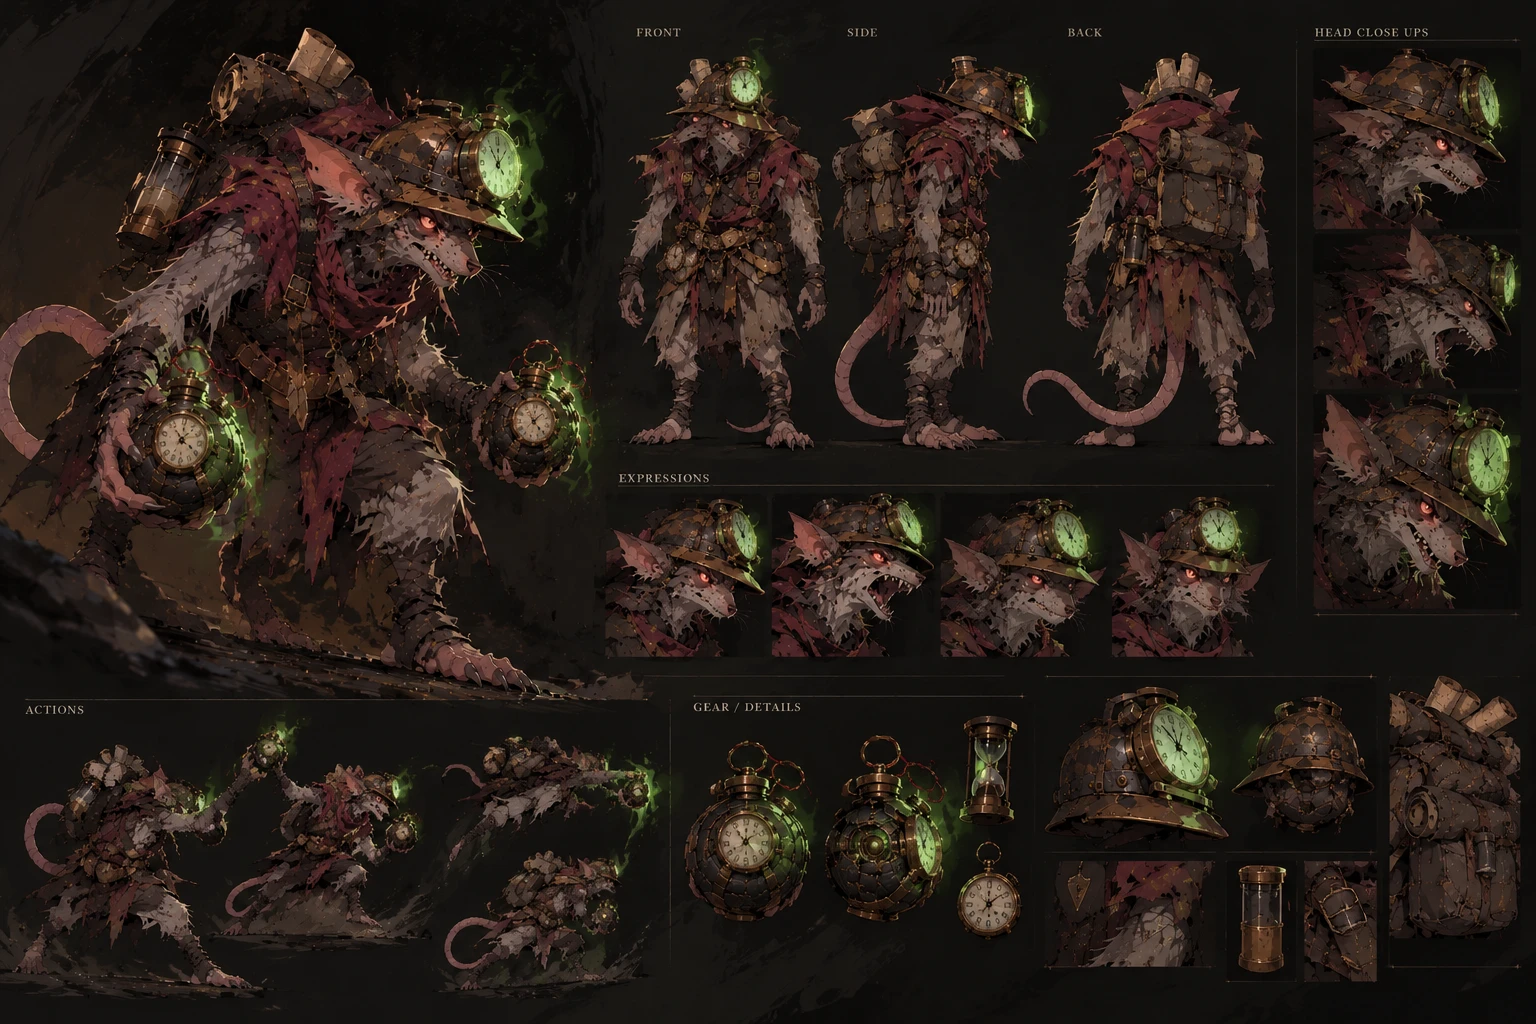
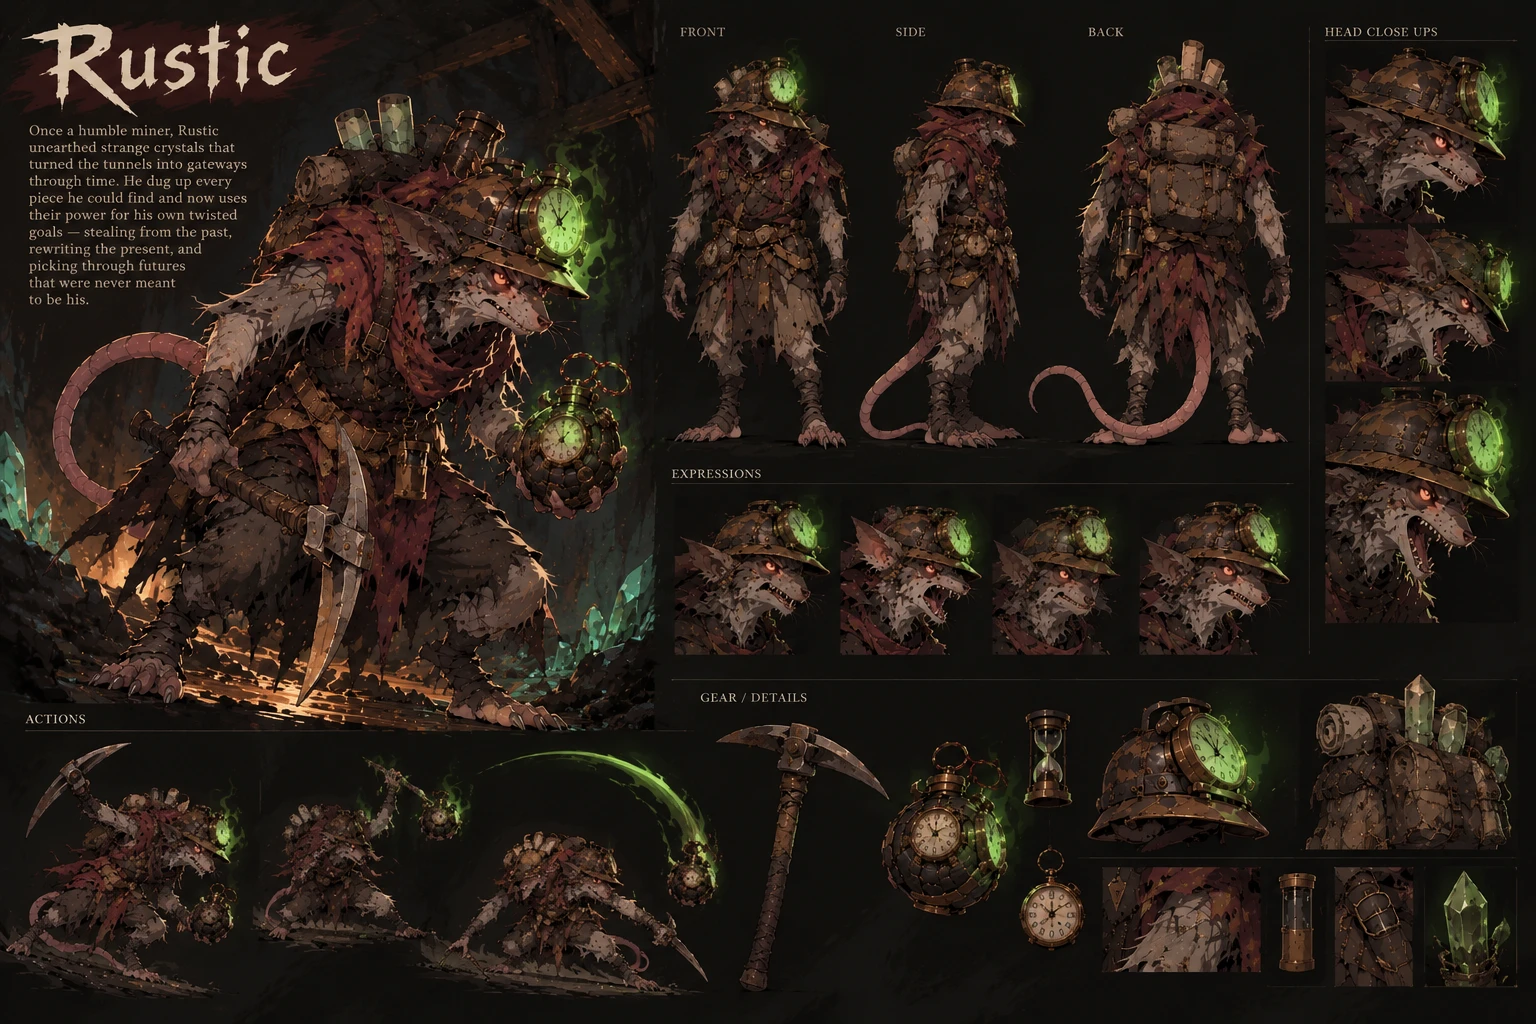
Rustic: pickaxe in hand, new art, miner ability names
New concept sheet and key art (flipped on the select screen and shifted right so
the painted background doesn't hide him). The model swings a pickaxe and carries
time crystals on its pack. Abilities renamed: Chrono Pick, Chronobomb, Time Skip,
Cave-In, Rewind, Blasting Charge.

diff --git a/src/render/models.ts b/src/render/models.ts
@@ -2274,8 +2274,9 @@ function buildVampire(color: string, glowTex: THREE.Texture): ChampionRig {
  * Rustic — time kobold (from the concept sheet), toon style: a hunched grey rat with a
  * long pink tail, red eyes and a snout full of teeth, a riveted miner's helmet with a
  * glowing green clock for a lamp, a torn red scarf and brown rags, wrapped shins, a
- * backpack with scrolls and an hourglass, and a clockwork bomb in each claw.
- * The right arm (with its bomb) is the weapon. Team color: armband and scarf knot.
+ * backpack with scroll rolls, time crystals and an hourglass, a pickaxe in the right
+ * claw and a clockwork bomb in the left. The right arm (with the pick) is the weapon.
+ * Team color: armband and scarf knot.
  */
 function buildRustic(color: string, glowTex: THREE.Texture): ChampionRig {
   const team = new THREE.Color(color);
@@ -2297,6 +2298,9 @@ function buildRustic(color: string, glowTex: THREE.Texture): ChampionRig {
   const matTime = new THREE.MeshBasicMaterial({ color: COLORS.chrono, toneMapped: false });
   const matGlass = new THREE.MeshBasicMaterial({ color: '#cfe8d4', transparent: true, opacity: 0.35, depthWrite: false });
   const matSand = toon('#d9b46a');
+  const matCrystal = new THREE.MeshBasicMaterial({ color: '#7dff8a', transparent: true, opacity: 0.8, toneMapped: false });
+  const matSteel = toon('#a9a49a');
+  const matHaft = toon('#5a4330');
 
   const root = new THREE.Group();
   const lean = new THREE.Group();
@@ -2364,13 +2368,19 @@ function buildRustic(color: string, glowTex: THREE.Texture): ChampionRig {
   // Harness straps over the shoulders
   for (const side of [-1, 1]) limb(torso, v(6.5, 15, side * 5), v(5.5, 2, -side * 4), 0.7, matLeather);
 
-  // Backpack with scroll rolls and a brass hourglass hanging off its side
+  // Backpack with a bedroll, glowing time crystals and a brass hourglass hanging off its side
   keep(add(new THREE.BoxGeometry(9, 13, 15), matLeather, -9.5, 11, 0, torso));
   keep(add(new THREE.BoxGeometry(2, 9, 12), matRags, -14.4, 10, 0, torso));
-  for (const [z, h, t] of [[-4, 11, 0.2], [0.5, 13, -0.1], [4.5, 9, 0.3]] as const) {
-    const roll = keep(add(new THREE.CylinderGeometry(1.9, 1.9, h, 10), matParch, -10 + t * 4, 19 + h / 2 - 2, z, torso));
-    roll.rotation.z = t;
+  const bedroll = keep(add(new THREE.CylinderGeometry(2.6, 2.6, 15, 12), matParch, -9.5, 19.5, 0, torso));
+  bedroll.rotation.x = Math.PI / 2;
+  for (const [x, z, h, t] of [[-8, -4, 9, 0.25], [-11, 0, 12, -0.1], [-7.5, 3.5, 8, 0.35], [-12, 5, 6, -0.3]] as const) {
+    const crystal = add(new THREE.OctahedronGeometry(2, 0), matCrystal, x, 21 + h / 3, z, torso);
+    crystal.scale.set(0.8, h / 4, 0.8);
+    crystal.rotation.set(t, t * 2, t);
   }
+  const packGlow = glowSprite(glowTex, COLORS.chrono, 20, 0.45);
+  packGlow.position.set(-9.5, 24, 0);
+  torso.add(packGlow);
   const hourglass = new THREE.Group();
   hourglass.position.set(-9, 9, 9.5);
   torso.add(hourglass);
@@ -2457,7 +2467,7 @@ function buildRustic(color: string, glowTex: THREE.Texture): ChampionRig {
   keep(add(new THREE.SphereGeometry(2, 10, 8), matPink, lHand.x, lHand.y, lHand.z, torso));
   bomb(torso, lHand.x + 3.5, lHand.y - 2, lHand.z);
 
-  // Right arm: the weapon, swinging from the shoulder
+  // Right arm: the weapon, swinging the pickaxe from the shoulder
   const weapon = new THREE.Group();
   weapon.position.set(1, 15, 8.6);
   torso.add(weapon);
@@ -2469,20 +2479,33 @@ function buildRustic(color: string, glowTex: THREE.Texture): ChampionRig {
   const band = add(new THREE.TorusGeometry(2.6, 0.7, 6, 14), matTeam, 2, -4, 1.2, weapon);
   band.quaternion.setFromUnitVectors(v(0, 0, 1), rElbow.clone().normalize());
   keep(add(new THREE.SphereGeometry(2, 10, 8), matPink, rHand.x, rHand.y, rHand.z, weapon));
-  const held = bomb(weapon, rHand.x + 3.5, rHand.y - 1.5, rHand.z);
-  const tip = add(new THREE.SphereGeometry(0.9, 8, 6), matTime, 3.5, 0, 0, held);
-  const tipGlow = glowSprite(glowTex, COLORS.chrono, 18, 0.8);
-  tipGlow.position.set(3.8, 0, 0);
-  held.add(tipGlow);
+  // Pickaxe gripped near the top of the haft, the head hanging forward and down
+  const pick = new THREE.Group();
+  pick.position.copy(rHand);
+  pick.rotation.z = 1.05;
+  weapon.add(pick);
+  keep(add(new THREE.CylinderGeometry(0.8, 0.9, 20, 8), matHaft, 0, -5, 0, pick));
+  wraps(pick, v(0, 3, 0), v(0, -2, 0), 1.1, 3, matLeather);
+  keep(add(new THREE.BoxGeometry(3, 3.4, 2.6), matIron, 0, -14.5, 0, pick));
+  const blade = keep(add(new THREE.ConeGeometry(1.4, 12, 6), matSteel, 6.4, -15.6, 0, pick));
+  blade.rotation.z = -Math.PI / 2 - 0.35;
+  blade.scale.set(1, 1, 0.6);
+  const back = keep(add(new THREE.ConeGeometry(1.2, 8, 6), matSteel, -5, -15, 0, pick));
+  back.rotation.z = Math.PI / 2 + 0.3;
+  back.scale.set(1, 1, 0.6);
+  const tip = add(new THREE.SphereGeometry(0.7, 8, 6), matTime, 11.8, -17.6, 0, pick);
+  const tipGlow = glowSprite(glowTex, COLORS.chrono, 14, 0.8);
+  tipGlow.position.copy(tip.position);
+  pick.add(tipGlow);
 
   shadowed(body);
   tip.castShadow = false;
   body.traverse((o) => {
     const m = (o as THREE.Mesh).material;
-    if (m === matEye || m === matTime || m === matGlass || m === matTooth) o.castShadow = false;
+    if (m === matEye || m === matTime || m === matGlass || m === matTooth || m === matCrystal) o.castShadow = false;
   });
   for (const m of outlined) outline(m);
 
   const markers = addMarkers(root, team, bright);
-  return { root, lean, yaw, body, weapon, tip, tipGlow, mats: [matTeam, matFur, matBelly, matPink, matRags, matScarf, matLeather, matBronze, matIron], ...markers };
+  return { root, lean, yaw, body, weapon, tip, tipGlow, mats: [matTeam, matFur, matBelly, matPink, matRags, matScarf, matLeather, matBronze, matIron, matSteel, matHaft], ...markers };
 }

diff --git a/src/sim/constants.ts b/src/sim/constants.ts
@@ -182,13 +182,13 @@ export const CHAMPIONS: ChampionDef[] = [
     hp: 130,
     speed: 3.5,
     abilities: [
-      { id: 'chrono', name: 'Chrono Blade', desc: 'quick slash, hold to keep slashing; every third hit in a row on one enemy resonates: bonus damage, slows it and hastes you', cooldown: 5, cast: 9, castSlow: 0.6, energyCost: 0 },
-      { id: 'clock', name: 'Clockwork Bomb', desc: 'lob a ticking bomb at the cursor that bounces on twice; it bursts when it lands next to an enemy (or at the last bounce), slowing time around it', cooldown: 270, cast: 14, castSlow: 0.5, energyCost: 0 },
+      { id: 'chrono', name: 'Chrono Pick', desc: 'pickaxe swing, hold to keep swinging; every third hit in a row on one enemy cracks time: bonus damage, slows it and hastes you', cooldown: 5, cast: 9, castSlow: 0.6, energyCost: 0 },
+      { id: 'clock', name: 'Chronobomb', desc: 'lob a ticking bomb at the cursor that bounces on twice; it bursts when it lands next to an enemy (or at the last bounce), slowing time around it', cooldown: 270, cast: 14, castSlow: 0.5, energyCost: 0 },
       // The cooldown is only a short lockout between blinks; charges do the limiting.
-      { id: 'flicker', name: 'Flicker', desc: 'short blink where you are moving (or aiming), two charges', cooldown: 12, cast: 0, castSlow: 1, energyCost: 0 },
-      { id: 'converge', name: 'Parallel Convergence', desc: 'place a field that collapses after 1.5 s, stunning enemies inside', cooldown: 600, cast: 10, castSlow: 0.5, energyCost: 0 },
-      { id: 'recall', name: 'Recall', desc: 'jump back to where you were 3 s ago, regaining a third of the HP you lost since', cooldown: 720, cast: 0, castSlow: 1, energyCost: 0 },
-      { id: 'pulse', name: 'Pulse Bomb', desc: 'throw a bomb that sticks to the first enemy it hits (or lands) and bursts after 1 s, 100 energy', cooldown: 60, cast: 12, castSlow: 0.4, energyCost: 100 },
+      { id: 'flicker', name: 'Time Skip', desc: 'short blink where you are moving (or aiming), two charges', cooldown: 12, cast: 0, castSlow: 1, energyCost: 0 },
+      { id: 'converge', name: 'Cave-In', desc: 'mark an area; after 1.5 s time caves in on it, stunning enemies inside', cooldown: 600, cast: 10, castSlow: 0.5, energyCost: 0 },
+      { id: 'recall', name: 'Rewind', desc: 'jump back to where you were 3 s ago, regaining a third of the HP you lost since', cooldown: 720, cast: 0, castSlow: 1, energyCost: 0 },
+      { id: 'pulse', name: 'Blasting Charge', desc: 'throw a charge that sticks to the first enemy it hits (or lands) and blows up after 1 s, 100 energy', cooldown: 60, cast: 12, castSlow: 0.4, energyCost: 100 },
     ],
   },
 ];
@@ -310,11 +310,11 @@ export const SWARM = { range: 260, ticks: 20, dmg: 10, heal: 5, slowMul: 0.75, s
 // Time kobold
 /**
  * Like KATANA but shorter. `hits` hits in a row on one enemy (each within `window` of the last,
- * from Chrono Blade or Clockwork Bomb) resonate: +`bonus`, a slow, and haste for the attacker.
+ * from Chrono Pick or Chronobomb) resonate: +`bonus`, a slow, and haste for the attacker.
  */
 export const CHRONO = { reach: 48, minDot: 0.5, dmg: 6, energy: 9, hits: 3, window: 150, bonus: 12, slowMul: 0.65, slowT: 50, haste: 60 };
 /**
- * Clockwork Bomb: `bounces` bounces, each hop `hop` times the last (at least `minHop`). It bursts
+ * Chronobomb: `bounces` bounces, each hop `hop` times the last (at least `minHop`). It bursts
  * within `r` when it lands next to an enemy (or the orb), on a pillar or the wall, or at the last landing.
  */
 export const CLOCK = { bounces: 2, hop: 0.45, minHop: 40, r: 75 };

diff --git a/src/sim/step.ts b/src/sim/step.ts
@@ -361,7 +361,7 @@ function updatePlayer(s: GameState, p: Player, inp: Input, ev: GameEvent[]) {
     p.charges++;
     if (p.charges < FLICKER.charges) p.chargeT = FLICKER.recharge;
   }
-  // The time kobold remembers where it was, for Recall.
+  // The time kobold remembers where it was, for Rewind.
   if (p.champ === CHAMP.CHRONO && s.roundFrame % RECALL.every === 0) {
     p.trail.push(p.x, p.y, p.hp);
     if (p.trail.length > 3 * (RECALL.ticks / RECALL.every + 1)) p.trail.splice(0, 3);
@@ -483,7 +483,7 @@ function tryStart(s: GameState, p: Player, slot: number, inp: Input, ev: GameEve
   const mobility = def.id === 'dash' || def.id === 'leap' || def.id === 'blink' || def.id === 'vault' || def.id === 'execute' || def.id === 'blade' || def.id === 'soul' || def.id === 'fate' || def.id === 'step' || def.id === 'swarm' || def.id === 'flicker' || def.id === 'recall';
   if (p.rootT > 0 && mobility) return false;
 
-  // Flicker: instant short blink along the movement (the aim when standing), on charges. Works mid-cast.
+  // Time Skip: instant short blink along the movement (the aim when standing), on charges. Works mid-cast.
   if (def.id === 'flicker') {
     if (p.charges <= 0 || p.dashT > 0) return false;
     let dx = Math.sign(inp.mx);
@@ -508,7 +508,7 @@ function tryStart(s: GameState, p: Player, slot: number, inp: Input, ev: GameEve
     return true;
   }
 
-  // Recall: back to the oldest remembered spot, getting part of the HP lost since then.
+  // Rewind: back to the oldest remembered spot, getting part of the HP lost since then.
   if (def.id === 'recall') {
     if (p.dashT > 0 || p.trail.length < 3) return false;
     const [x, y, hp] = p.trail;
@@ -1295,7 +1295,7 @@ function updateProjectiles(s: GameState, ev: GameEvent[]) {
         alive.push(pr);
         continue;
       }
-      // A Pulse Bomb doesn't hurt on contact: it sticks (a counter knocks it away).
+      // A Blasting Charge doesn't hurt on contact: it sticks (a counter knocks it away).
       if (pr.kind === 'pulse') {
         if (target.counterT > 0) block(target, pr.x, pr.y, ev);
         else {
@@ -1360,12 +1360,12 @@ function fizzle(s: GameState, pr: Projectile, ev: GameEvent[], impact = true) {
     s.zones.push({ id: s.nextId++, owner: pr.owner, kind: 'sonic', x: pr.x, y: pr.y, t: SONIC.ticks, target: -1 });
     ev.push({ type: 'sensor', owner: pr.owner, x: pr.x, y: pr.y });
   }
-  // A Pulse Bomb that hit nothing lies where it stopped, still ticking.
+  // A Blasting Charge that hit nothing lies where it stopped, still ticking.
   if (pr.kind === 'pulse') s.zones.push({ id: s.nextId++, owner: pr.owner, kind: 'pulse', x: pr.x, y: pr.y, t: PULSE.fuse, target: -1 });
 }
 
 /**
- * Clockwork Bomb: hops over pillars to each landing spot. Lands next to an enemy (or the
+ * Chronobomb: hops over pillars to each landing spot. Lands next to an enemy (or the
  * orb), on a pillar or with no bounces left: bursts. Otherwise it bounces on, shorter.
  */
 function clockTick(s: GameState, pr: Projectile, ev: GameEvent[]): boolean {

diff --git a/src/sim/types.ts b/src/sim/types.ts
@@ -119,10 +119,10 @@ export interface Player {
   resoN: number;
   resoT: number;
   resoTarget: number;
-  /** Time kobold: Flicker charges, and ticks until the next one comes back. */
+  /** Time kobold: Time Skip charges, and ticks until the next one comes back. */
   charges: number;
   chargeT: number;
-  /** Time kobold: recent [x, y, hp] samples, oldest first, for Recall. */
+  /** Time kobold: recent [x, y, hp] samples, oldest first, for Rewind. */
   trail: number[];
   counterT: number;
   slowT: number;
@@ -145,11 +145,11 @@ export interface Projectile {
   /** Damage and knockback on hit (fixed per kind, except a drawn longshot or a quick arrow). */
   dmg: number;
   kb: number;
-  /** Clockwork Bomb: bounces left; `life` is the current hop's length and `age` restarts every hop. */
+  /** Chronobomb: bounces left; `life` is the current hop's length and `age` restarts every hop. */
   bounces: number;
 }
 
-/** Something on the floor: arrow rain, a sonic sensor, a Parallel Convergence field or a Pulse Bomb. */
+/** Something on the floor: arrow rain, a sonic sensor, a Cave-In field or a Blasting Charge. */
 export interface Zone {
   id: number;
   owner: number;
@@ -158,7 +158,7 @@ export interface Zone {
   y: number;
   /** Ticks left. Rain is still falling while t > RAIN.ticks; a field or a bomb goes off at 0. */
   t: number;
-  /** Pulse Bomb: the player it's stuck to (it moves with them), -1 if on the floor. */
+  /** Blasting Charge: the player it's stuck to (it moves with them), -1 if on the floor. */
   target: number;
 }
 
@@ -242,16 +242,16 @@ export type GameEvent =
   | { type: 'bleed'; player: number; x: number; y: number }
   /** A missed Transfusion costs its caster HP. */
   | { type: 'bloodloss'; player: number; amount: number; x: number; y: number }
-  /** Time kobold: Flicker and Recall jumps. */
+  /** Time kobold: Time Skip and Rewind jumps. */
   | { type: 'flicker'; player: number; x0: number; y0: number; x: number; y: number }
   | { type: 'recall'; player: number; x0: number; y0: number; x: number; y: number }
   /** Resonance going off on `player`. */
   | { type: 'resonance'; player: number; x: number; y: number }
   | { type: 'converge'; owner: number; x: number; y: number }
-  /** A Pulse Bomb sticking to `player`, and bursting. */
+  /** A Blasting Charge sticking to `player`, and bursting. */
   | { type: 'stick'; player: number; x: number; y: number }
   | { type: 'pulse'; owner: number; x: number; y: number }
-  /** A Clockwork Bomb bouncing on, and bursting. */
+  /** A Chronobomb bouncing on, and bursting. */
   | { type: 'bounce'; owner: number; x: number; y: number }
   | { type: 'clockBurst'; owner: number; x: number; y: number }
   /** Romulus scatters into bats (Night Swarm). */

diff --git a/src/render/world3d.ts b/src/render/world3d.ts
@@ -117,7 +117,7 @@ export class World3D implements WorldView {
   private aimLane: THREE.Group;
   private aimLaneMesh: THREE.Mesh;
   private aimCircle: THREE.Mesh;
-  /** Where Recall would land (shown to Rustic's own player). */
+  /** Where Rewind would land (shown to Rustic's own player). */
   private recallMark: THREE.Mesh;
 
   constructor(canvas: HTMLCanvasElement) {
@@ -686,11 +686,13 @@ export class World3D implements WorldView {
         rig.weapon.rotation.z = kick * 0.35;
         twist = def ? -ck * 0.25 : 0;
       } else if (pc.champ === CHAMP.CHRONO) {
-        // The bomb arm winds back for a throw or a cut, then whips forward after it.
+        // The pick rises overhead during the windup and chops down after the hit;
+        // for throws the arm winds back instead.
         const cutCd = pc.cooldowns[SLOT.M1];
         let swing = 0;
-        if (def) swing = -ck * (def.id === 'chrono' ? 1.1 : 1.5);
-        else if (cutCd > 0) swing = 1.1 * (cutCd / kitCd(pc.champ, SLOT.M1));
+        if (def?.id === 'chrono') swing = ck * 1.8;
+        else if (def) swing = -ck * 1.5;
+        else if (cutCd > 0) swing = -0.5 * (cutCd / kitCd(pc.champ, SLOT.M1));
         rig.weapon.rotation.z = swing;
         twist = def ? ck * 0.25 : 0;
       } else {
@@ -856,7 +858,7 @@ export class World3D implements WorldView {
       const old = prevById.get(pr.id);
       const x = old ? old.x + (pr.x - old.x) * alpha : pr.x;
       const y = old ? old.y + (pr.y - old.y) * alpha : pr.y;
-      // A Clockwork Bomb arcs up and down on every hop.
+      // A Chronobomb arcs up and down on every hop.
       const hop = pr.kind === 'clock' ? Math.sin(Math.PI * Math.min(1, (pr.age + alpha) / pr.life)) * Math.min(110, pr.life * 3.2) : 0;
       v.group.position.set(x, PROJ_H + hop, y);
       v.decal.position.y = -PROJ_H - hop + 1;
@@ -1108,7 +1110,7 @@ export class World3D implements WorldView {
     this.recallMark.visible = false;
     if (opts.localId === null || s.phase !== 'fight') return;
     const p = s.players[opts.localId];
-    // Rustic sees where Recall would take it.
+    // Rustic sees where Rewind would take it.
     if (p.champ === CHAMP.CHRONO && p.trail.length >= 3 && !p.out) {
       this.recallMark.visible = true;
       this.recallMark.position.set(p.trail[0], 1.5, p.trail[1]);

diff --git a/src/render/hud.ts b/src/render/hud.ts
@@ -302,7 +302,7 @@ export class Hud {
     for (let i = 0; i < n; i++) {
       const def = kit[i];
       const x = x0 + i * (slot + gap);
-      // Flicker is limited by its charges (its own cooldown is just a short lockout).
+      // Time Skip is limited by its charges (its own cooldown is just a short lockout).
       const outOfCharges = def.id === 'flicker' && p.charges === 0;
       const cd = outOfCharges ? p.chargeT : p.cooldowns[i];
       const cdMax = outOfCharges ? FLICKER.recharge : def.cooldown;
@@ -335,7 +335,7 @@ export class Hud {
       drawIcon(ctx, def.id === 'tempest' && p.stacks >= TEMPEST.max ? 'crescent' : def.id, x + slot / 2, y0 + slot / 2, COLORS.players[p.id]);
       ctx.restore();
 
-      // Pips under the icon: Steel Tempest stacks, Flicker charges, hits towards Resonance.
+      // Pips under the icon: Steel Tempest stacks, Time Skip charges, hits towards Resonance.
       const pips =
         def.id === 'tempest' ? { n: TEMPEST.max, on: p.stacks, color: COLORS.edge }
         : def.id === 'flicker' ? { n: FLICKER.charges, on: p.charges, color: COLORS.chrono }
@@ -468,21 +468,26 @@ function drawIcon(ctx: CanvasRenderingContext2D, ability: AbilityId | 'crescent'
   ctx.lineJoin = 'round';
   switch (ability) {
     case 'chrono':
-      // A short blade with a clock-hand notch
+      // A pickaxe with a green crack of time at its point
+      ctx.strokeStyle = '#8a6a48';
+      ctx.lineWidth = 3;
+      ctx.beginPath();
+      ctx.moveTo(-10, 13);
+      ctx.lineTo(6, -7);
+      ctx.stroke();
       ctx.strokeStyle = color;
       ctx.lineWidth = 3.5;
       ctx.beginPath();
-      ctx.moveTo(-12, 12);
-      ctx.lineTo(10, -10);
+      ctx.moveTo(-4, -14);
+      ctx.quadraticCurveTo(7, -11, 14, -1);
       ctx.stroke();
       ctx.strokeStyle = COLORS.chrono;
-      ctx.lineWidth = 2.5;
+      ctx.lineWidth = 2;
       ctx.beginPath();
-      ctx.moveTo(-14, 4);
-      ctx.lineTo(-6, 12);
-      ctx.stroke();
-      ctx.beginPath();
-      ctx.arc(10, -10, 3, 0, TAU);
+      ctx.moveTo(14, 3);
+      ctx.lineTo(11, 7);
+      ctx.lineTo(15, 9);
+      ctx.lineTo(12, 13);
       ctx.stroke();
       break;
     case 'clock':

diff --git a/src/input/bot.ts b/src/input/bot.ts
@@ -283,7 +283,7 @@ export class Bot {
         else if (dist < 2 * PLAYER_R + KATANA.reach && r() < 0.95 * a) press(SLOT.M1);
       } else if (chrono) {
         const reach = 2 * PLAYER_R + CHRONO.reach;
-        // Recall after a bad trade (it lost a lot over the last two seconds), or when low and cornered.
+        // Rewind after a bad trade (it lost a lot over the last three seconds), or when low and cornered.
         const lost = me.trail.length >= 3 ? me.trail[2] - me.hp : 0;
         const lowMe = me.hp < CHAMPIONS[me.champ].hp * 0.35;
         const pinned = foe.stunT > 0 || foe.slowT > 0 || foe.rootT > 0 || foe.cast !== null;

diff --git a/src/ui/roster.ts b/src/ui/roster.ts
@@ -86,9 +86,10 @@ export const ROSTER: RosterEntry[] = [
     hero: 'Rustic',
     category: 'Assassin',
     art: './art/rustic.webp',
-    flip: false,
-    portrait: '58% 31%',
-    focus: 0.62,
+    flip: true,
+    portrait: '61% 35%',
+    artShift: '10vw',
+    focus: 0.6,
     lore: 'A kobold miner who dug up crystals that turn old tunnels into gateways to other moments. Armed with chronobombs and a clock fused to his helmet, Rustic steals treasures before they are found and settles grudges history forgot.',
   },
 ];
